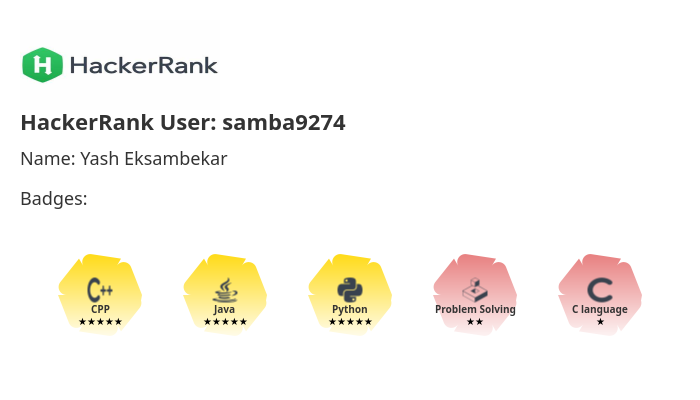
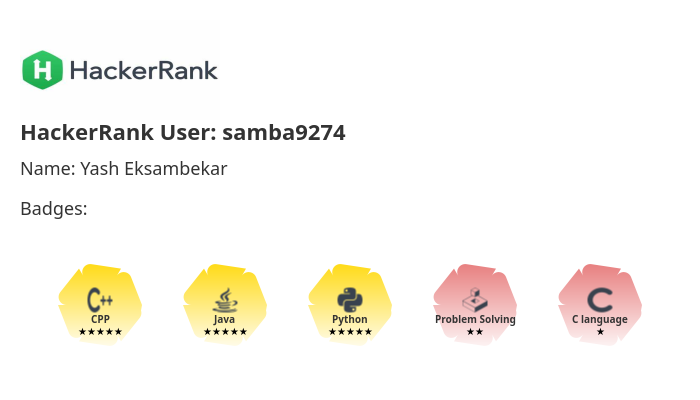
update the hackerrank height

diff --git a/src/createdGithubCard.js b/src/createdGithubCard.js
@@ -19,7 +19,7 @@ async function createGithubCard(data, logoPath, outputFile) {
   const cardPadding = 20;
   const badgeSize = 100; // Reduced hexagon size
   const badgeSpacing = 25;
-  const logoHeight = 90;
+  const logoHeight = 100;
   const yOffsetStart = logoHeight + 40;
   let yOffset = yOffsetStart;
   const cornerRadius = 20; // Added corner radius for the card
